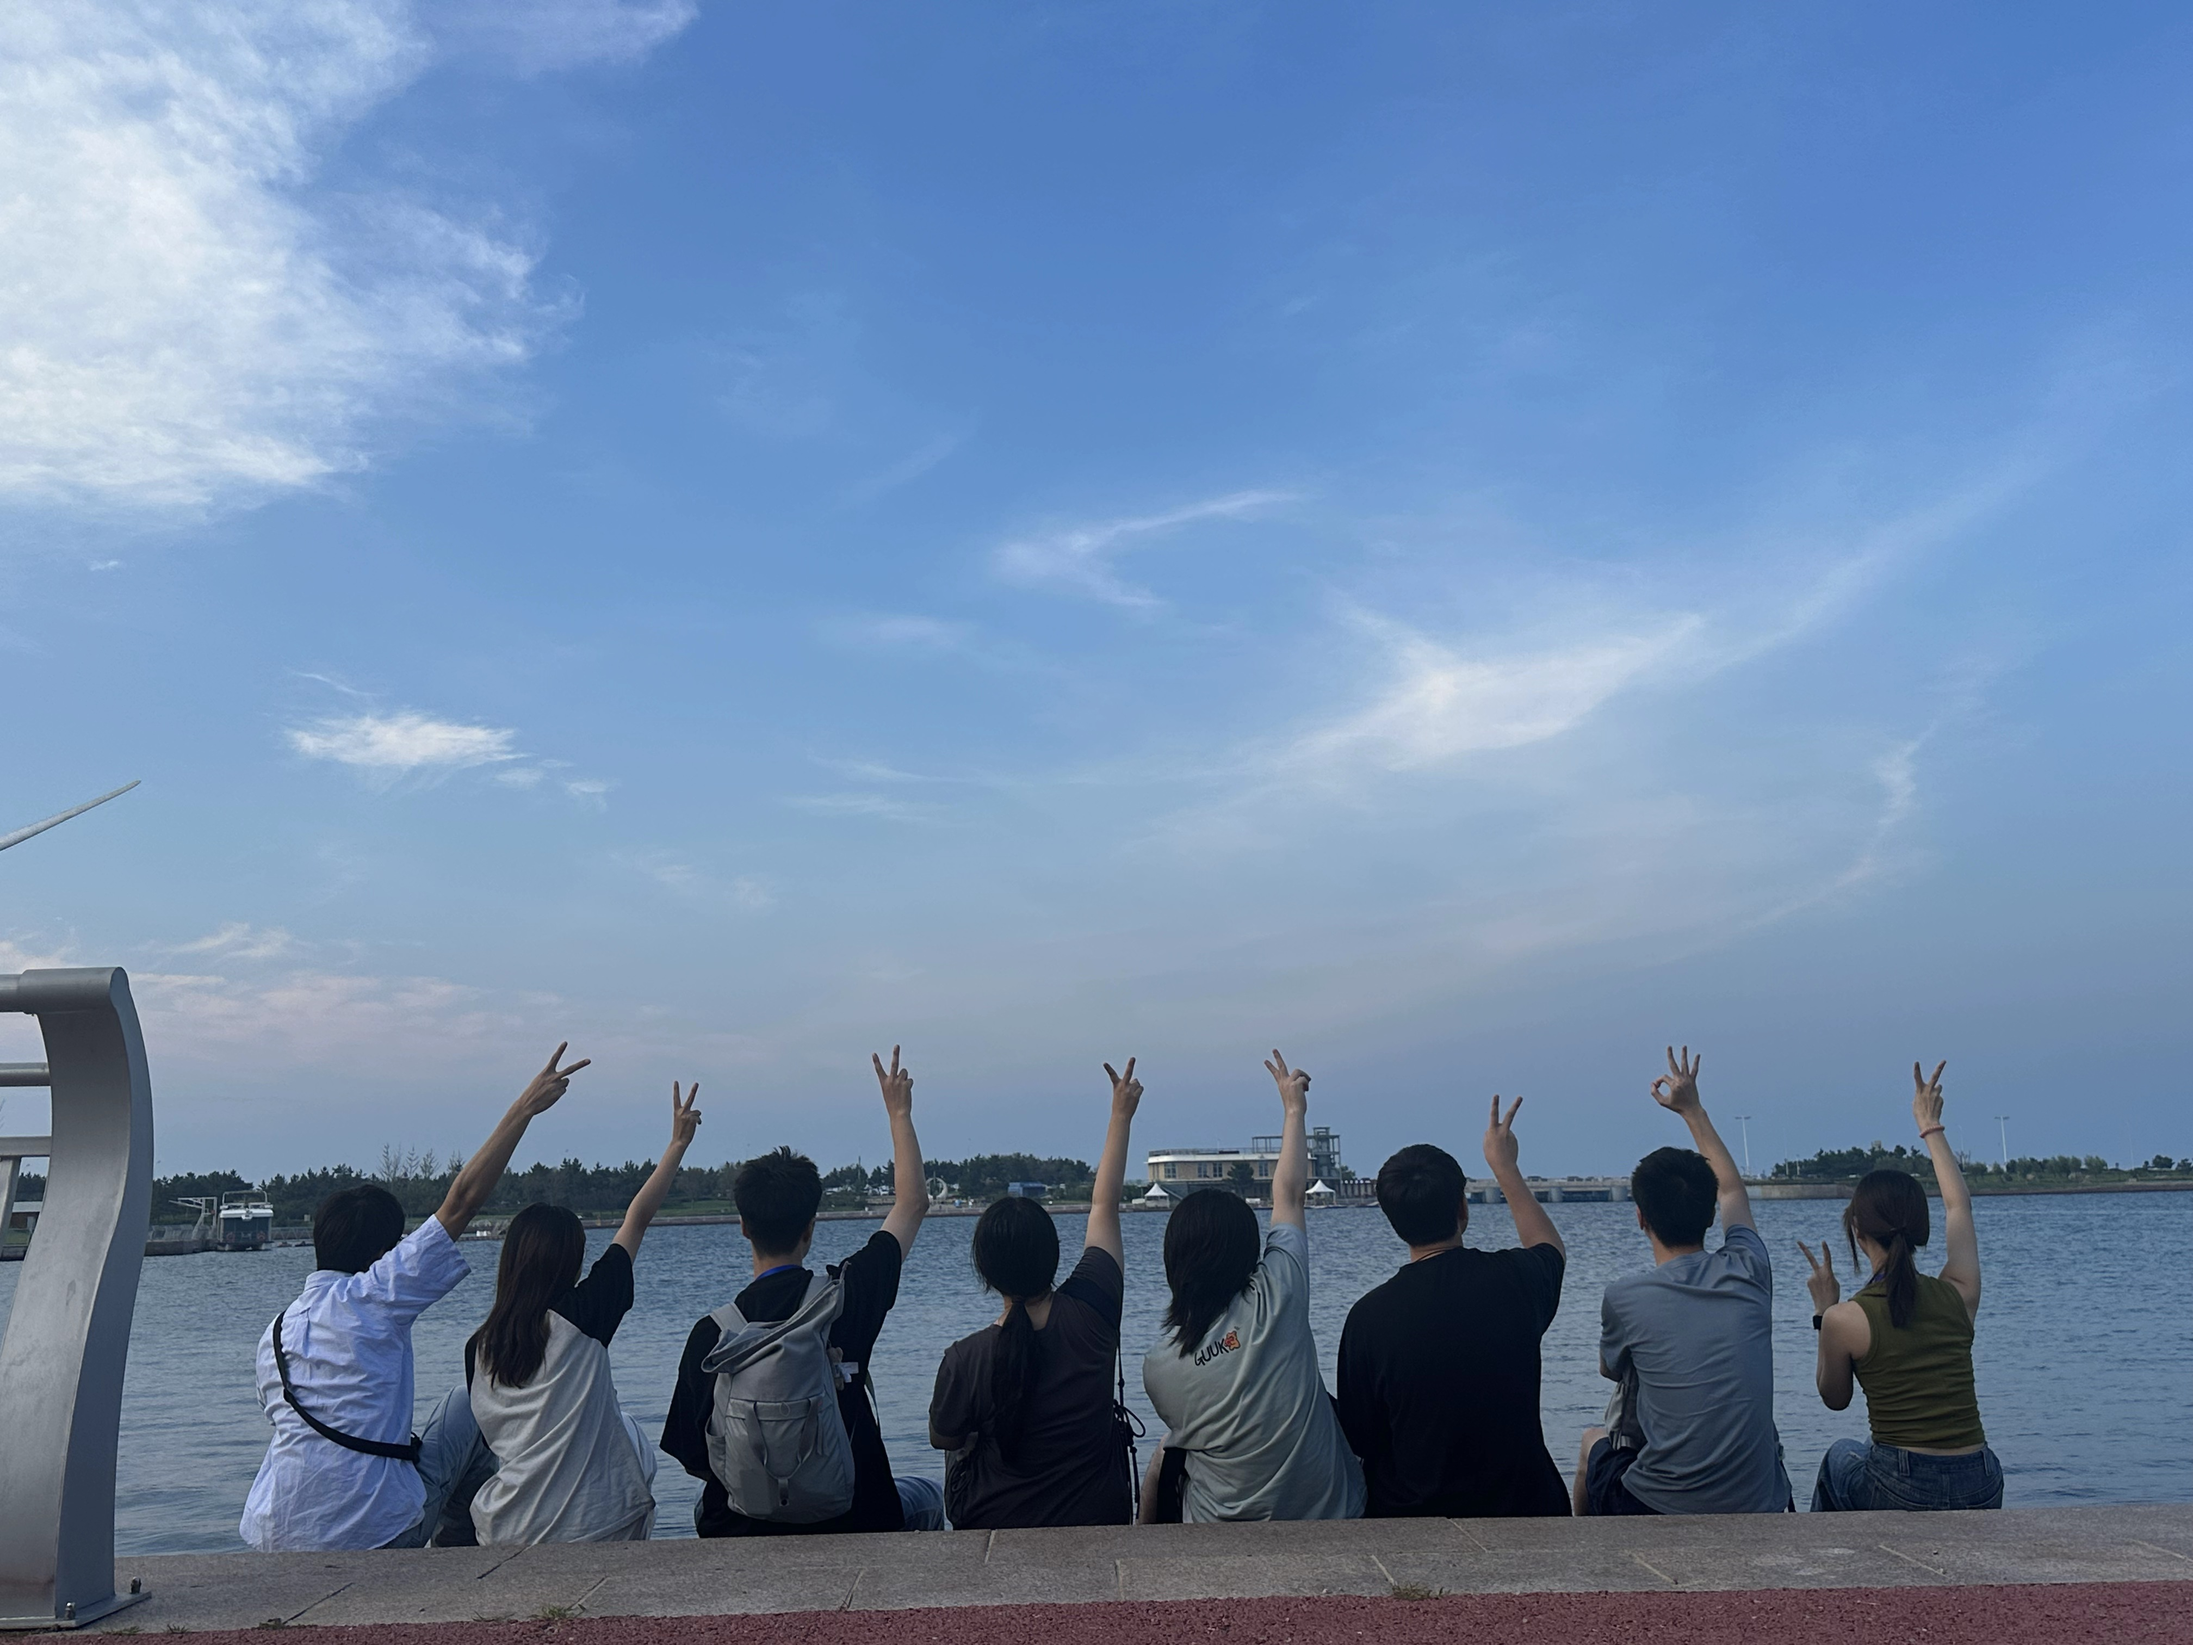
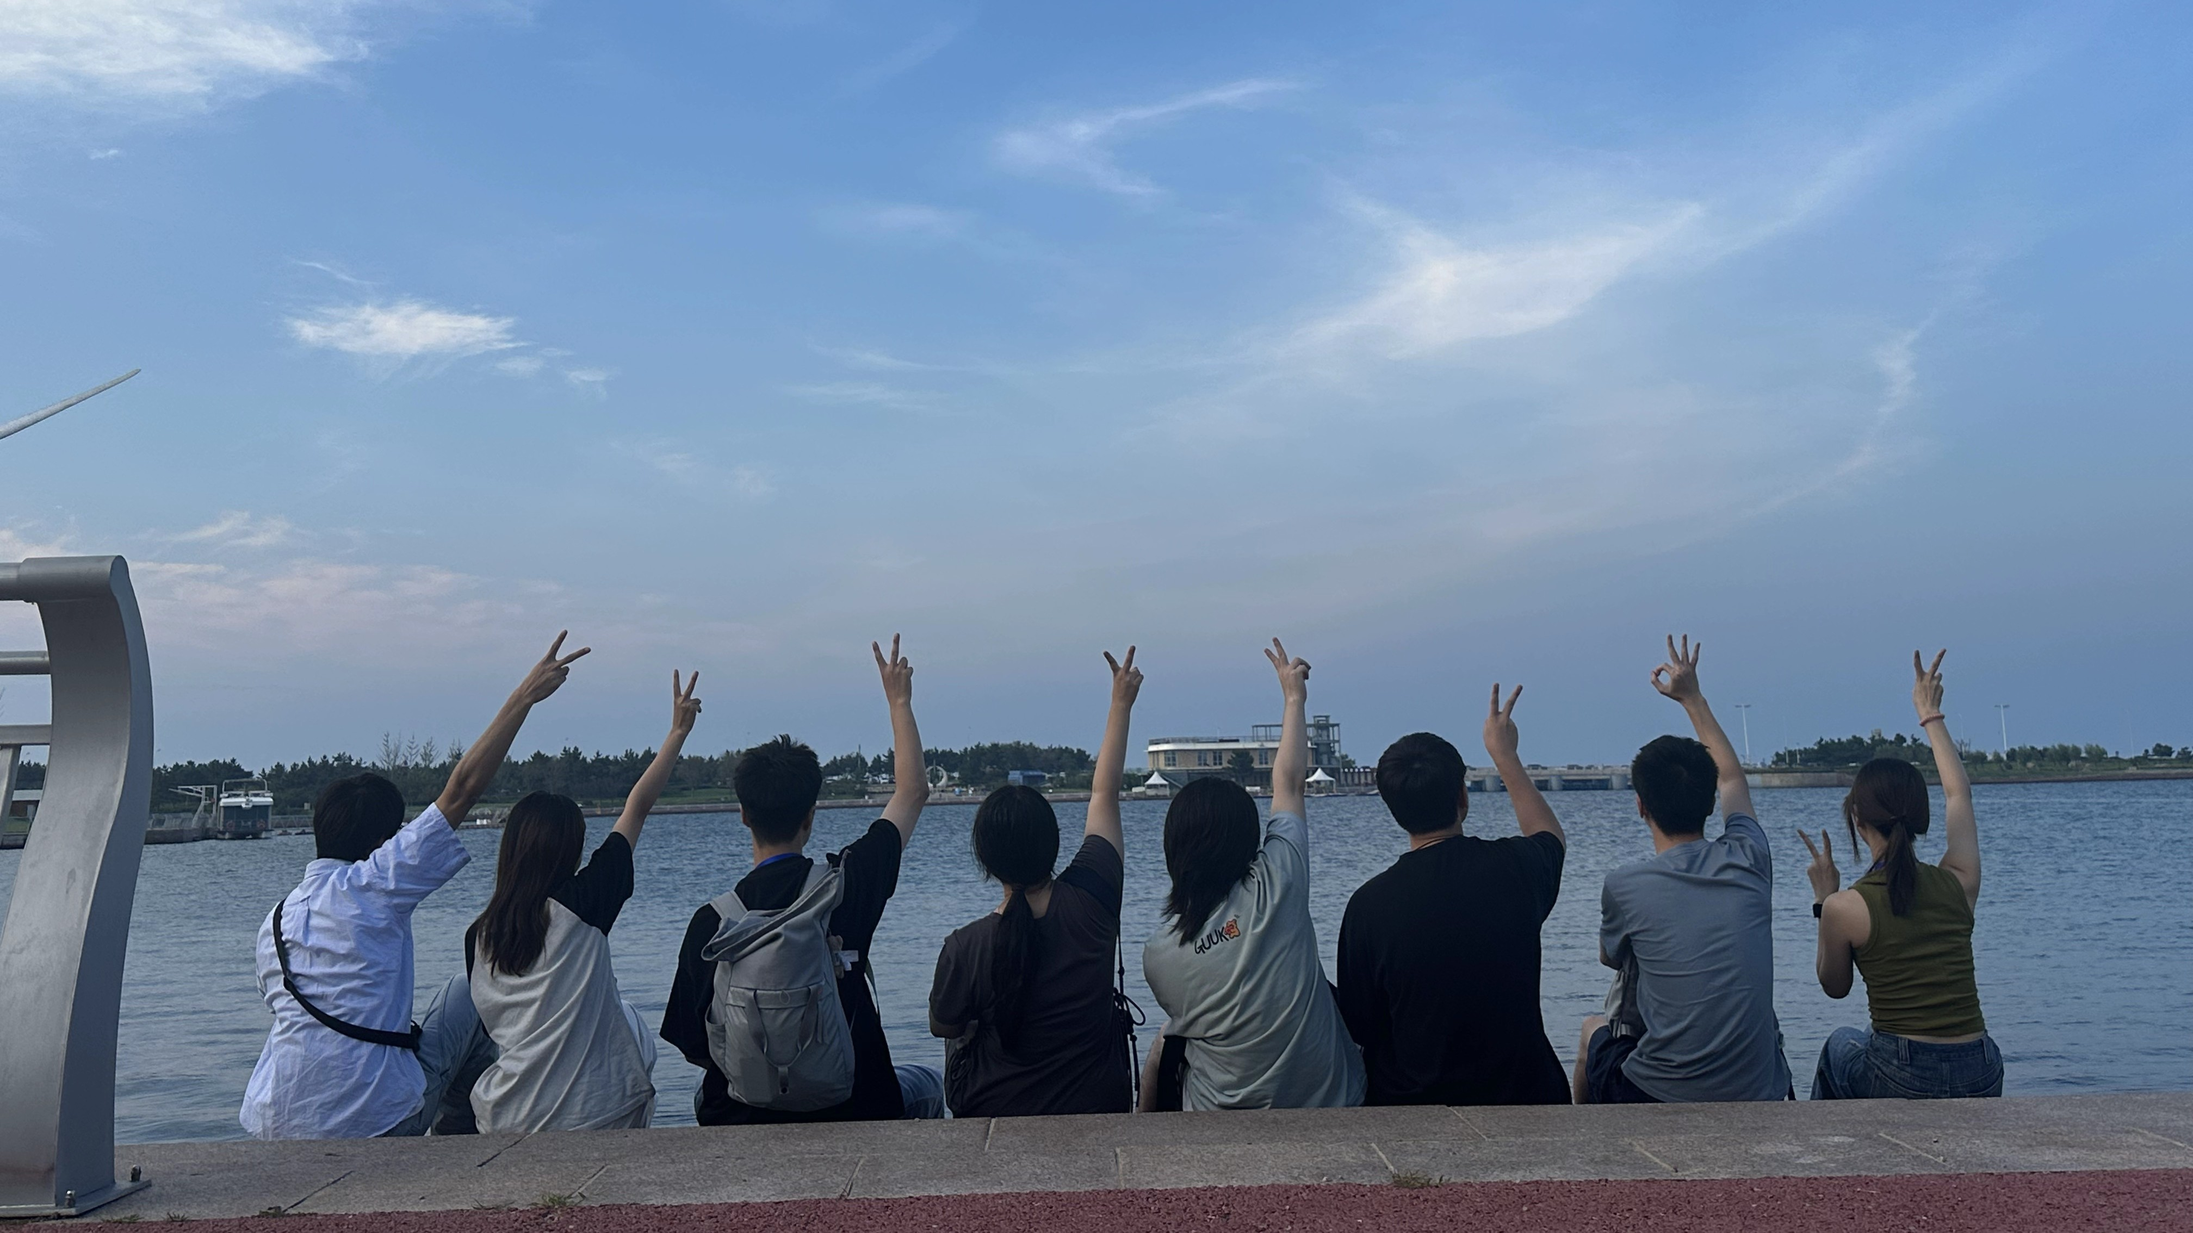
polish

diff --git a/_layouts/homelay.html b/_layouts/homelay.html
@@ -1,12 +1,17 @@
 ---
 layout: default
 ---
-  <div id="homeid" class="col-sm-8">
+{% comment %} 首屏：整页一横排轮播，叠加效果（底层大图半透明，中间当前图不透明）{% endcomment %}
+<div class="col-sm-12 home-hero-wrap">
+  <div class="home-hero">
     {% if site.data.header_slides and site.data.header_slides.size > 0 %}
     <div class="home-header-carousel" id="homeHeaderCarousel">
+      <div class="home-carousel-bg" aria-hidden="true">
+        <img src="{{ site.data.header_slides[0].image | prepend: site.baseurl | prepend: site.url }}" alt="">
+      </div>
       <div class="home-header-carousel-track" style="width: {{ site.data.header_slides.size | times: 100 }}%;">
         {% for slide in site.data.header_slides %}
-        <div class="home-header-carousel-slide" style="width: {{ 100 | divided_by: site.data.header_slides.size }}%;">
+        <div class="home-header-carousel-slide" style="width: {{ 100 | divided_by: site.data.header_slides.size }}%;" data-src="{{ slide.image | prepend: site.baseurl | prepend: site.url }}">
           <img src="{{ slide.image | prepend: site.baseurl | prepend: site.url }}" class="img-responsive" alt="MIPG">
         </div>
         {% endfor %}
@@ -15,9 +20,12 @@ layout: default
     </div>
     <script>
       (function() {
-        var track = document.querySelector('#homeHeaderCarousel .home-header-carousel-track');
-        var dotsWrap = document.querySelector('#homeHeaderCarousel .home-header-carousel-dots');
-        if (!track || !dotsWrap) return;
+        var carousel = document.getElementById('homeHeaderCarousel');
+        if (!carousel) return;
+        var track = carousel.querySelector('.home-header-carousel-track');
+        var bgImg = carousel.querySelector('.home-carousel-bg img');
+        var dotsWrap = carousel.querySelector('.home-header-carousel-dots');
+        if (!track || !bgImg || !dotsWrap) return;
         var slides = track.querySelectorAll('.home-header-carousel-slide');
         var n = slides.length;
         if (n <= 1) return;
@@ -32,6 +40,10 @@ layout: default
         function goTo(k) {
           idx = (k + n) % n;
           track.style.transform = 'translateX(-' + idx * (100 / n) + '%)';
+          if (bgImg && slides[idx]) {
+            var src = slides[idx].getAttribute('data-src');
+            if (src) bgImg.src = src;
+          }
           dots.forEach(function(d, i) { d.classList.toggle('active', i === idx); });
         }
         dots.forEach(function(d, i) {
@@ -41,14 +53,20 @@ layout: default
       })();
     </script>
     {% else %}
-    <img src="{{ site.url }}{{ site.baseurl }}/images/header.jpg" class="img-responsive" alt="MIPG">
-    {% endif %}
-    <h3>About Us</h3>
-    <div class="home-intro">
-      {{ content }}
+    <div class="home-header-carousel home-header-carousel--single">
+      <img src="{{ site.url }}{{ site.baseurl }}/images/header.jpg" class="img-responsive" alt="MIPG">
     </div>
+    {% endif %}
   </div>
-  <div class="col-sm-4" id="newsid">
-    {% include news.html %}
-  </div>
+</div>
 
+{% comment %} 下方：About Us 与 News 并排 {% endcomment %}
+<div id="homeid" class="col-sm-8">
+  <h3>About Us</h3>
+  <div class="home-intro">
+    {{ content }}
+  </div>
+</div>
+<div class="col-sm-4" id="newsid">
+  {% include news.html %}
+</div>

diff --git a/css/main.scss b/css/main.scss
@@ -112,30 +112,45 @@ firstp { }
   }
 }
 
-/* ========== Home ========== */
-#homeid {
-  h3 {
-    color: $mipg-primary;
-    font-weight: 600;
-    margin-bottom: 1rem;
-    padding-bottom: 0.5rem;
-    border-bottom: 2px solid rgba(13, 122, 110, 0.2);
-  }
-  img.img-responsive {
-    border-radius: 12px;
-    box-shadow: 0 4px 14px rgba(0, 0, 0, 0.08);
-  }
-  /* 首页头图轮播：统一比例裁剪，向左滑动切换 */
-  .home-header-carousel {
-    position: relative;
-    width: 100%;
-    overflow: hidden;
-    border-radius: 12px;
-    box-shadow: 0 4px 14px rgba(0, 0, 0, 0.08);
-    margin-bottom: 0;
-    aspect-ratio: 21 / 9;
+/* ========== Home：首屏全宽轮播（叠加效果）+ 下方 About Us | News 并排 ========== */
+.home-hero-wrap {
+  padding-left: 0;
+  padding-right: 0;
+  max-width: none;
+  overflow: visible;
+  margin-bottom: 1.5rem;
+}
+
+.home-hero {
+  width: 100vw;
+  margin-left: calc(-50vw + 50%);
+  position: relative;
+}
+
+/* 首页头图轮播：整页一横排，底层大图半透明 + 中间当前图不透明 */
+.home-header-carousel {
+  position: relative;
+  width: 100%;
+  overflow: hidden;
+  margin-bottom: 0;
+  aspect-ratio: 21 / 9;
+  .home-carousel-bg {
+    position: absolute;
+    inset: 0;
+    z-index: 0;
+    img {
+      width: 100%;
+      height: 100%;
+      object-fit: cover;
+      object-position: center;
+      opacity: 0.35;
+      transform: scale(1.12);
+      transition: opacity 0.5s ease;
+    }
   }
   .home-header-carousel-track {
+    position: relative;
+    z-index: 1;
     display: flex;
     flex-wrap: nowrap;
     transition: transform 0.6s ease-out;
@@ -156,11 +171,12 @@ firstp { }
   }
   .home-header-carousel-dots {
     position: absolute;
-    bottom: 12px;
+    bottom: 14px;
     left: 0;
     right: 0;
     text-align: center;
     pointer-events: none;
+    z-index: 2;
   }
   .home-header-carousel-dot {
     display: inline-block;
@@ -177,6 +193,27 @@ firstp { }
       background: $mipg-card-bg;
       box-shadow: 0 0 0 2px $mipg-primary;
     }
+  }
+  &.home-header-carousel--single img {
+    width: 100%;
+    height: auto;
+    display: block;
+    aspect-ratio: 21 / 9;
+    object-fit: cover;
+  }
+}
+
+#homeid {
+  h3 {
+    color: $mipg-primary;
+    font-weight: 600;
+    margin-bottom: 1rem;
+    padding-bottom: 0.5rem;
+    border-bottom: 2px solid rgba(13, 122, 110, 0.2);
+  }
+  img.img-responsive {
+    border-radius: 12px;
+    box-shadow: 0 4px 14px rgba(0, 0, 0, 0.08);
   }
   .home-intro {
     line-height: 1.7;
@@ -214,7 +251,7 @@ firstp { }
     min-height: 0;
     .joining-slide-image {
       width: 100%;
-      aspect-ratio: 21 / 9;
+      aspect-ratio: 16 / 9;
       overflow: hidden;
       flex-shrink: 0;
       img {

diff --git a/_includes/header.html b/_includes/header.html
@@ -8,7 +8,7 @@
         <span class="icon-bar"></span>
       </button>
       <a class="navbar-brand" href="{{ site.url }}{{ site.baseurl }}/">
-        <img class="navbar-brand-logo" src="{{ site.url }}{{ site.baseurl }}/favicon.svg" alt="MIPG">
+        <img class="navbar-brand-logo" src="{{ site.url }}{{ site.baseurl }}/favic.svg" alt="MIPG">
         <span class="navbar-brand-text">CUC-MIPG</span>
       </a>
     </div>
